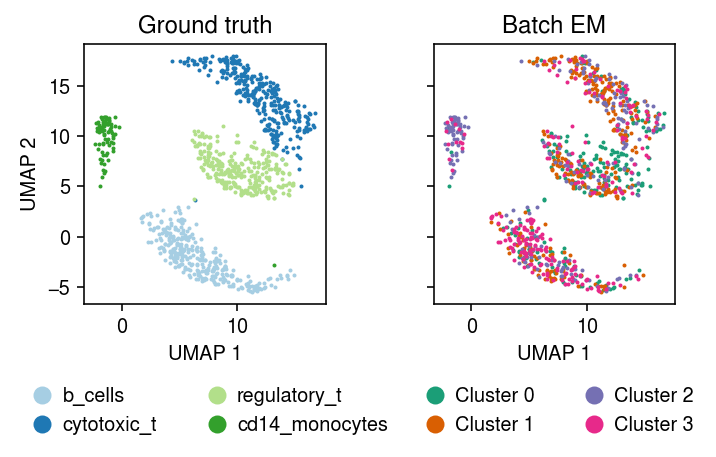
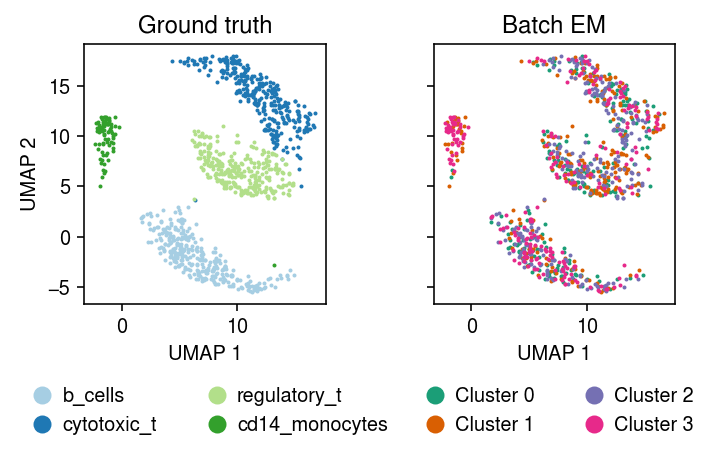
Sanity checks on 4-way example

Changed region(s): [[0.7374, 0.1225, 0.9525, 0.4595], [0.676, 0.4289, 0.9218, 0.6433], [0.6145, 0.2451, 0.676, 0.3982]]

diff --git a/docs/nbmix.html b/docs/nbmix.html
@@ -1,7 +1,7 @@
 <!DOCTYPE html>
 <html lang="en">
 <head>
-<!-- 2020-05-28 Thu 23:34 -->
+<!-- 2020-05-30 Sat 16:20 -->
 <meta charset="utf-8">
 <meta name="viewport" content="width=device-width, initial-scale=1">
 <title>Model-based clustering of scRNA-seq data</title>
@@ -452,8 +452,8 @@ can improve the expected log joint probability, e.g. by
 </div>
 </div>
 
-<div id="outline-container-org7584ed6" class="outline-3">
-<h3 id="ai"><a id="org7584ed6"></a>Amortized inference</h3>
+<div id="outline-container-org85286a2" class="outline-3">
+<h3 id="ai"><a id="org85286a2"></a>Amortized inference</h3>
 <div class="outline-text-3" id="text-ai">
 <p>
 An alternative algorithm, which is amenable to stochastic gradient descent
@@ -866,8 +866,8 @@ plt.tight_layout()
 </div>
 </div>
 
-<div id="outline-container-org71a5e7c" class="outline-3">
-<h3 id="amortized"><a id="org71a5e7c"></a>Amortized inference</h3>
+<div id="outline-container-orgaaafde0" class="outline-3">
+<h3 id="amortized"><a id="orgaaafde0"></a>Amortized inference</h3>
 <div class="outline-text-3" id="text-amortized">
 <p>
 Construct the amortized inference model, initializing \(\vmu_k, \vphi_k\)
@@ -1275,11 +1275,13 @@ fig.tight_layout()
 <h3 id="org60dbe51">4-way example</h3>
 <div class="outline-text-3" id="text-org60dbe51">
 <p>
-Pick 4 cell types which <i>a priori</i> should be easy to distinguish.
+Pick 4 cell types which <i>a priori</i> should be easy to distinguish. Apply the
+standard methodology (1.4 minutes).
 </p>
 
 <div class="org-src-container">
-<pre class="src src-ipython"><span class="org-variable-name">mix4</span> = dat[dat.obs[<span class="org-string">'cell_type'</span>].isin([<span class="org-string">'cytotoxic_t'</span>, <span class="org-string">'regulatory_t'</span>, <span class="org-string">'b_cells'</span>, <span class="org-string">'cd14_monocytes'</span>])]
+<pre class="src src-ipython">%%time
+<span class="org-variable-name">mix4</span> = dat[dat.obs[<span class="org-string">'cell_type'</span>].isin([<span class="org-string">'cytotoxic_t'</span>, <span class="org-string">'regulatory_t'</span>, <span class="org-string">'b_cells'</span>, <span class="org-string">'cd14_monocytes'</span>])]
 sc.pp.filter_genes(mix4, min_counts=1)
 sc.pp.pca(mix4, zero_center=<span class="org-constant">False</span>)
 sc.pp.neighbors(mix4)
@@ -1347,10 +1349,43 @@ cd14_monocytes     75
 Name: cell_type, dtype: int64
 </pre>
 
+<p>
+As a sanity check, estimate the components given the ground truth labels,
+get the MAP estimate of the mixture weights given the components, and report
+the log loss of the MAP mixture assignments.
+</p>
+
+<div class="org-src-container">
+<pre class="src src-ipython"><span class="org-variable-name">num_epochs</span> = 100
+<span class="org-variable-name">fit0</span> = mpebpm.sgd.ebpm_gamma(
+  mix4sub.X,
+  onehot=pd.get_dummies(mix4sub.obs[<span class="org-string">'cell_type'</span>]).values,
+  batch_size=32,
+  num_epochs=num_epochs,
+  shuffle=<span class="org-constant">True</span>,
+  log_dir=f<span class="org-string">'runs/nbmix/mix4-init-gt-{num_epochs}'</span>)
+<span class="org-variable-name">z</span> = pd.get_dummies(mix4sub.obs[<span class="org-string">'cell_type'</span>]).values
+<span class="org-keyword">with</span> torch.no_grad():
+  <span class="org-variable-name">L</span> = mpebpm.gam_mix._nb_mix_llik(
+    x=torch.tensor(mix4sub.X.A, dtype=torch.<span class="org-builtin">float</span>), 
+    s=torch.tensor(mix4sub.X.<span class="org-builtin">sum</span>(axis=1), dtype=torch.<span class="org-builtin">float</span>),
+    log_mean=torch.tensor(fit0[0], dtype=torch.<span class="org-builtin">float</span>),
+    log_inv_disp=torch.tensor(fit0[1], dtype=torch.<span class="org-builtin">float</span>))
+  <span class="org-variable-name">zhat</span> = torch.nn.functional.softmax(L, dim=1).cpu().numpy()
+<span class="org-variable-name">loss</span> = (z * np.log(zhat + 1e-16)).<span class="org-builtin">sum</span>()
+loss
+</pre>
+</div>
+
+<pre class="example">
+0.0
+
+</pre>
+
 <div class="org-src-container">
 <pre class="src src-ipython"><span class="org-keyword">import</span> imp; imp.<span class="org-builtin">reload</span>(mpebpm.gam_mix)
 <span class="org-variable-name">k</span> = 4
-<span class="org-variable-name">seed</span> = 4
+<span class="org-variable-name">seed</span> = 0
 <span class="org-variable-name">lr</span> = 1e-2
 <span class="org-variable-name">num_epochs</span> = 50
 <span class="org-variable-name">max_em_iters</span> = 10
@@ -1365,6 +1400,24 @@ torch.manual_seed(seed)
   log_dir=f<span class="org-string">'runs/nbmix/mix4-init-{k}-{seed}-{lr:.1g}-{num_epochs}-{max_em_iters}'</span>)
 </pre>
 </div>
+
+<p>
+Report the minimum cluster weight, over MAP estimates for each cell.
+</p>
+
+<div class="org-src-container">
+<pre class="src src-ipython">np.<span class="org-builtin">max</span>(fit[-1], axis=1).<span class="org-builtin">min</span>()
+</pre>
+</div>
+
+<pre class="example">
+0.99999416
+
+</pre>
+
+<p>
+Plot the MAP cluster assignments.
+</p>
 
 <div class="org-src-container">
 <pre class="src src-ipython">plt.clf()
@@ -1400,6 +1453,38 @@ fig.tight_layout()
 <p><img src="figure/nbmix.org/mix4-init.png" alt="mix4-init.png">
 </p>
 </div>
+
+<p>
+Compare the expected log joint of the fitted model to the oracle.
+</p>
+
+<div class="org-src-container">
+<pre class="src src-ipython"><span class="org-variable-name">pi</span> = torch.ones(4) / 4.
+<span class="org-keyword">with</span> torch.no_grad():
+  <span class="org-variable-name">oracle_log_joint</span> = mpebpm.gam_mix._nb_mix_loss(
+    z=torch.tensor(z, dtype=torch.<span class="org-builtin">float</span>),
+    x=torch.tensor(mix4sub.X.A, dtype=torch.<span class="org-builtin">float</span>), 
+    s=torch.tensor(mix4sub.X.<span class="org-builtin">sum</span>(axis=1), dtype=torch.<span class="org-builtin">float</span>),
+    log_mean=torch.tensor(fit0[0], dtype=torch.<span class="org-builtin">float</span>),
+    log_inv_disp=torch.tensor(fit0[1], dtype=torch.<span class="org-builtin">float</span>),
+    pi=pi).numpy()
+  <span class="org-variable-name">em_log_joint</span> = mpebpm.gam_mix._nb_mix_loss(
+    z=torch.tensor(fit[2], dtype=torch.<span class="org-builtin">float</span>),
+    x=torch.tensor(mix4sub.X.A, dtype=torch.<span class="org-builtin">float</span>), 
+    s=torch.tensor(mix4sub.X.<span class="org-builtin">sum</span>(axis=1), dtype=torch.<span class="org-builtin">float</span>),
+    log_mean=torch.tensor(fit[0], dtype=torch.<span class="org-builtin">float</span>),
+    log_inv_disp=torch.tensor(fit[1], dtype=torch.<span class="org-builtin">float</span>),
+    pi=pi).numpy()
+pd.Series({<span class="org-string">'oracle'</span>: oracle_log_joint,
+           <span class="org-string">'em'</span>: em_log_joint})
+</pre>
+</div>
+
+<pre class="example">
+oracle    455.64392
+em        467.37344
+dtype: object
+</pre>
 </div>
 </div>
 
@@ -1965,7 +2050,7 @@ potentially be adapted to this setting (reviewed in
 </div>
 <div id="postamble" class="status">
 <p class="author">Author: Abhishek Sarkar</p>
-<p class="date">Created: 2020-05-28 Thu 23:34</p>
+<p class="date">Created: 2020-05-30 Sat 16:20</p>
 <p class="validation"><a href="http://validator.w3.org/check?uri=referer">Validate</a></p>
 </div>
 </body>
